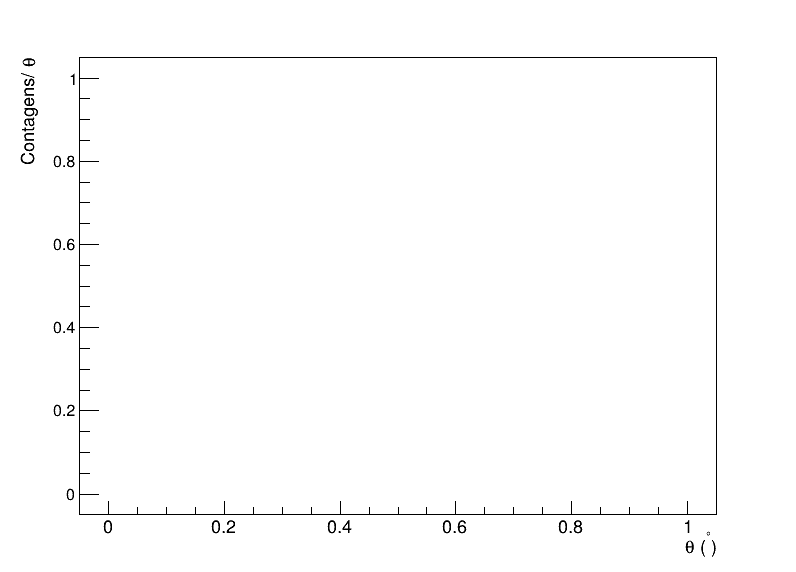
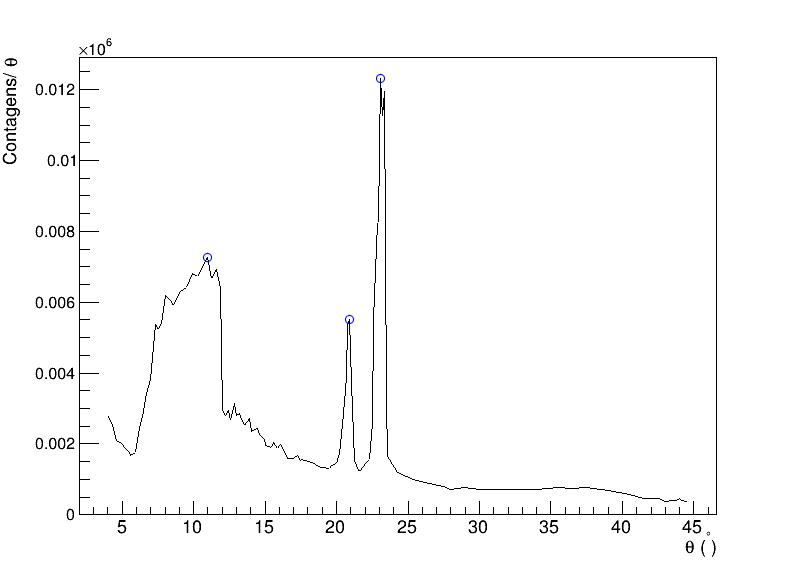
upload - few changes

diff --git a/analise.C b/analise.C
@@ -48,7 +48,7 @@ TGraph read_TGraph(TString path, TString filename) {
     ifstream inp;
 
     std::vector<double> x_array, y_array;
-    double x, y;
+    double x, y, x_bremsstrahlung_min = 10e3, y_bremsstrahlung_min = 10e3;
     int N = 0;
 
     inp.open(path + filename);
@@ -62,11 +62,21 @@ TGraph read_TGraph(TString path, TString filename) {
 
         if (inp.eof()) break;
 
+        if (x / 2 > 0 && x / 2 < 10 && y_bremsstrahlung_min > y) {
+            x_bremsstrahlung_min = x / 2;
+            y_bremsstrahlung_min = y;
+        }
         x_array.push_back(x / 2);
         y_array.push_back(y);
         N++;
     }
     cout << "N = " << N << endl;
+    cout << "\\theta_brehmsstralum_min = " << x_bremsstrahlung_min << endl;
+
+    // change it later
+    double dLiF = 201e-12, hc = 1.23984198e-6, q = 1.6e-19;
+
+    cout << "\\theta_bremsstrahlung_min_energy = " << hc / (2 * dLiF * sin((x_bremsstrahlung_min + 0.5) * M_PI / 180) * 1.e3) << (" kV") << endl;
 
     inp.close();
     // achando picos
@@ -93,14 +103,14 @@ TGraph read_TGraph(TString path, TString filename) {
     auto mg = new TMultiGraph();
     mg->SetName("mg");
     mg->SetTitle(";#theta (^{#circ});Contagens/#theta");
-    // mg->GetYaxis()->SetMaxDigits(1);
-    mg->GetYaxis()->SetLabelSize(0.03);
 
     TCanvas *c = new TCanvas("c", " ", 0, 0, 800, 600);
 
     mg->Add(gr);
     mg->Add(gr_peaks, "P");
     mg->Draw("A");
+    mg->GetYaxis()->SetMaxDigits(2);
+    mg->GetYaxis()->SetLabelSize(0.03);
 
     c->SaveAs(Form("plots/") + filename + Form(".png"));
     c->Close();
